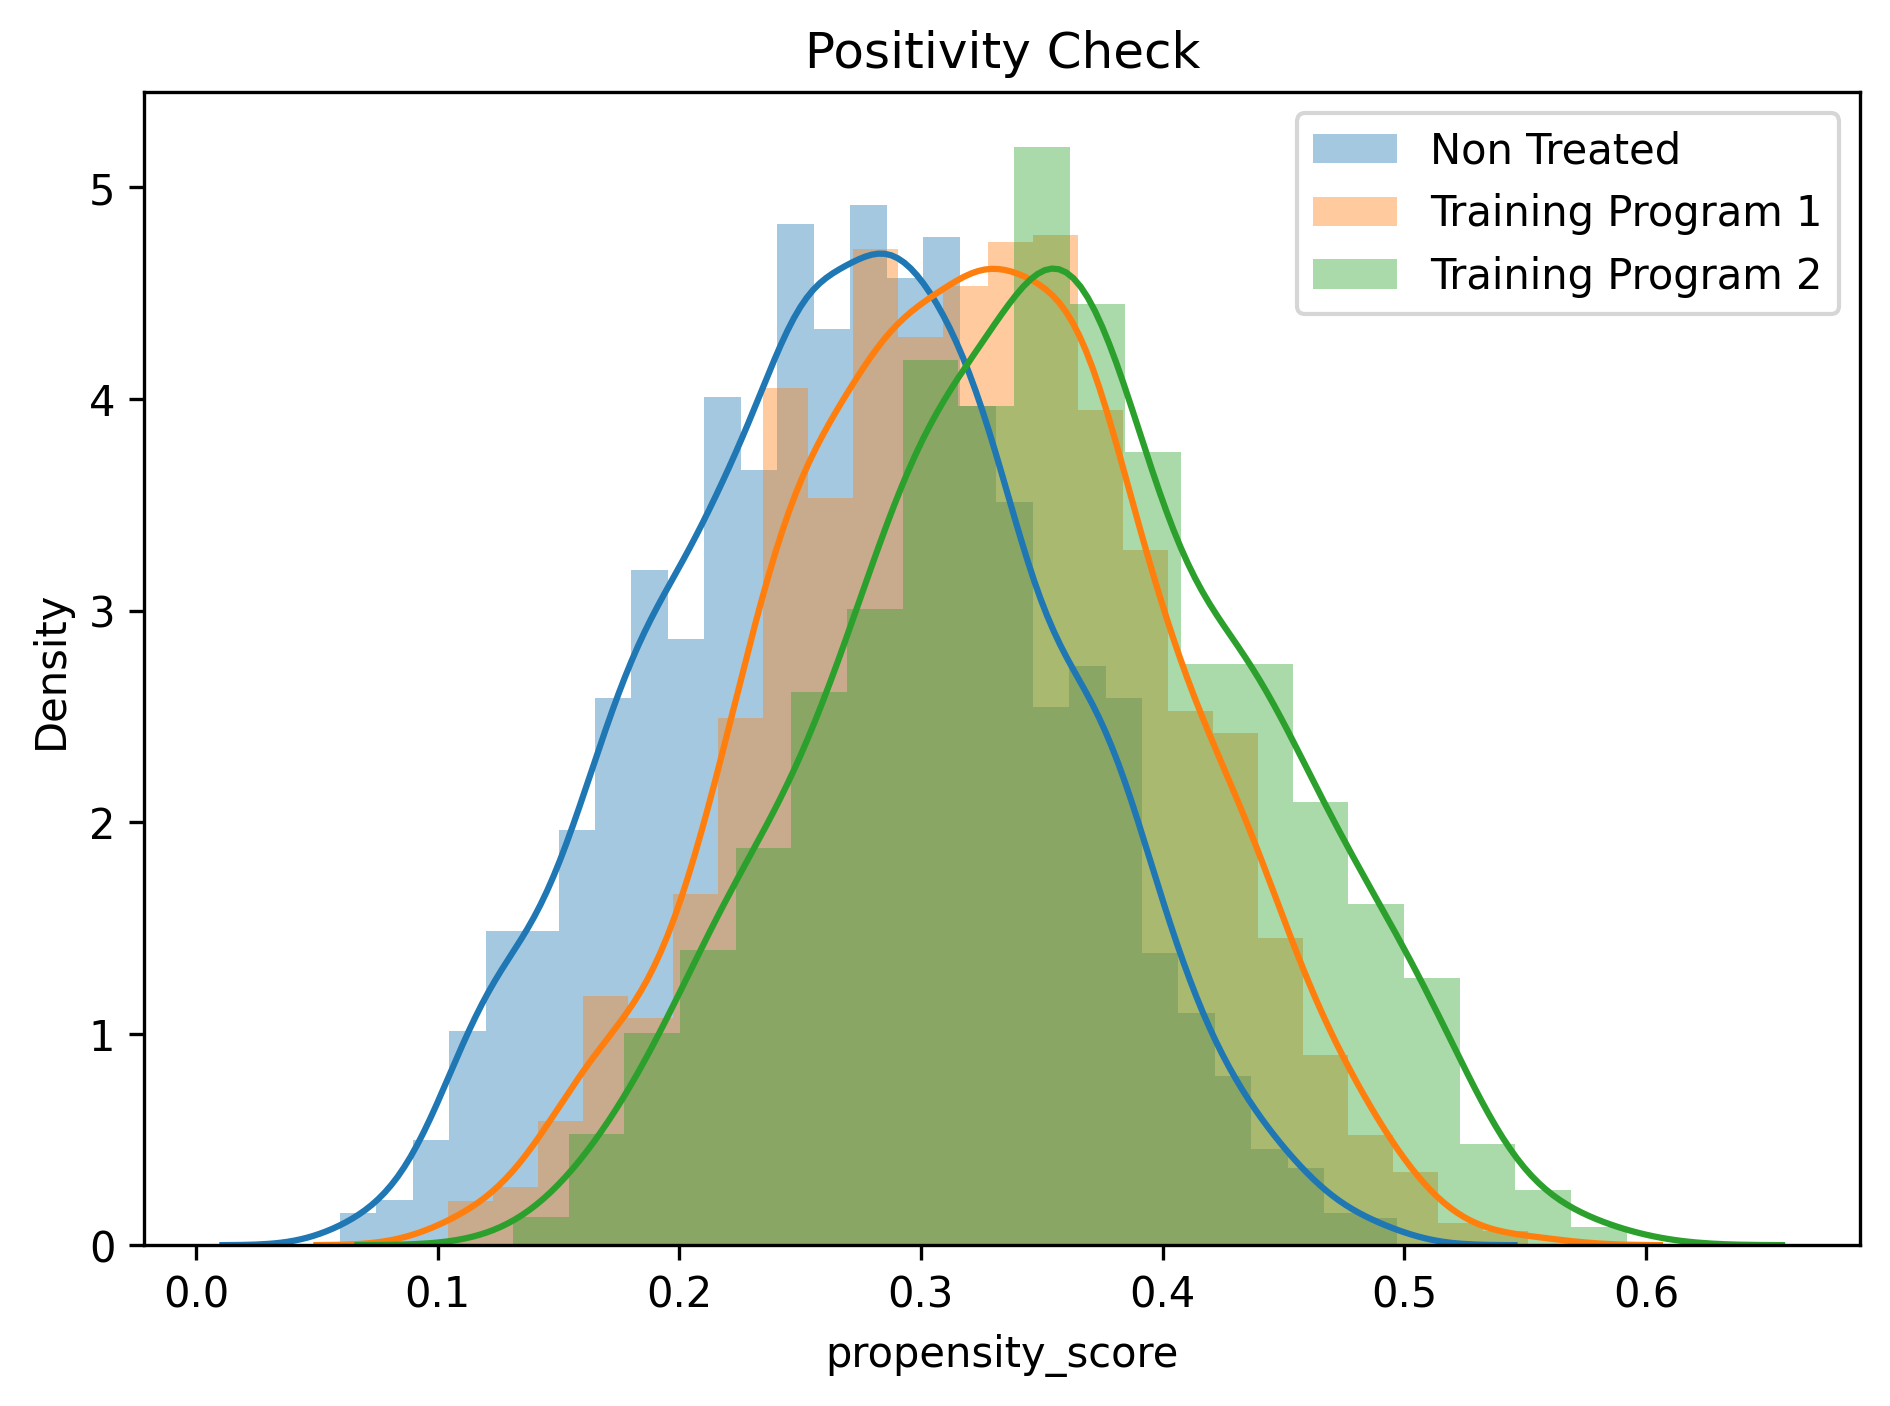
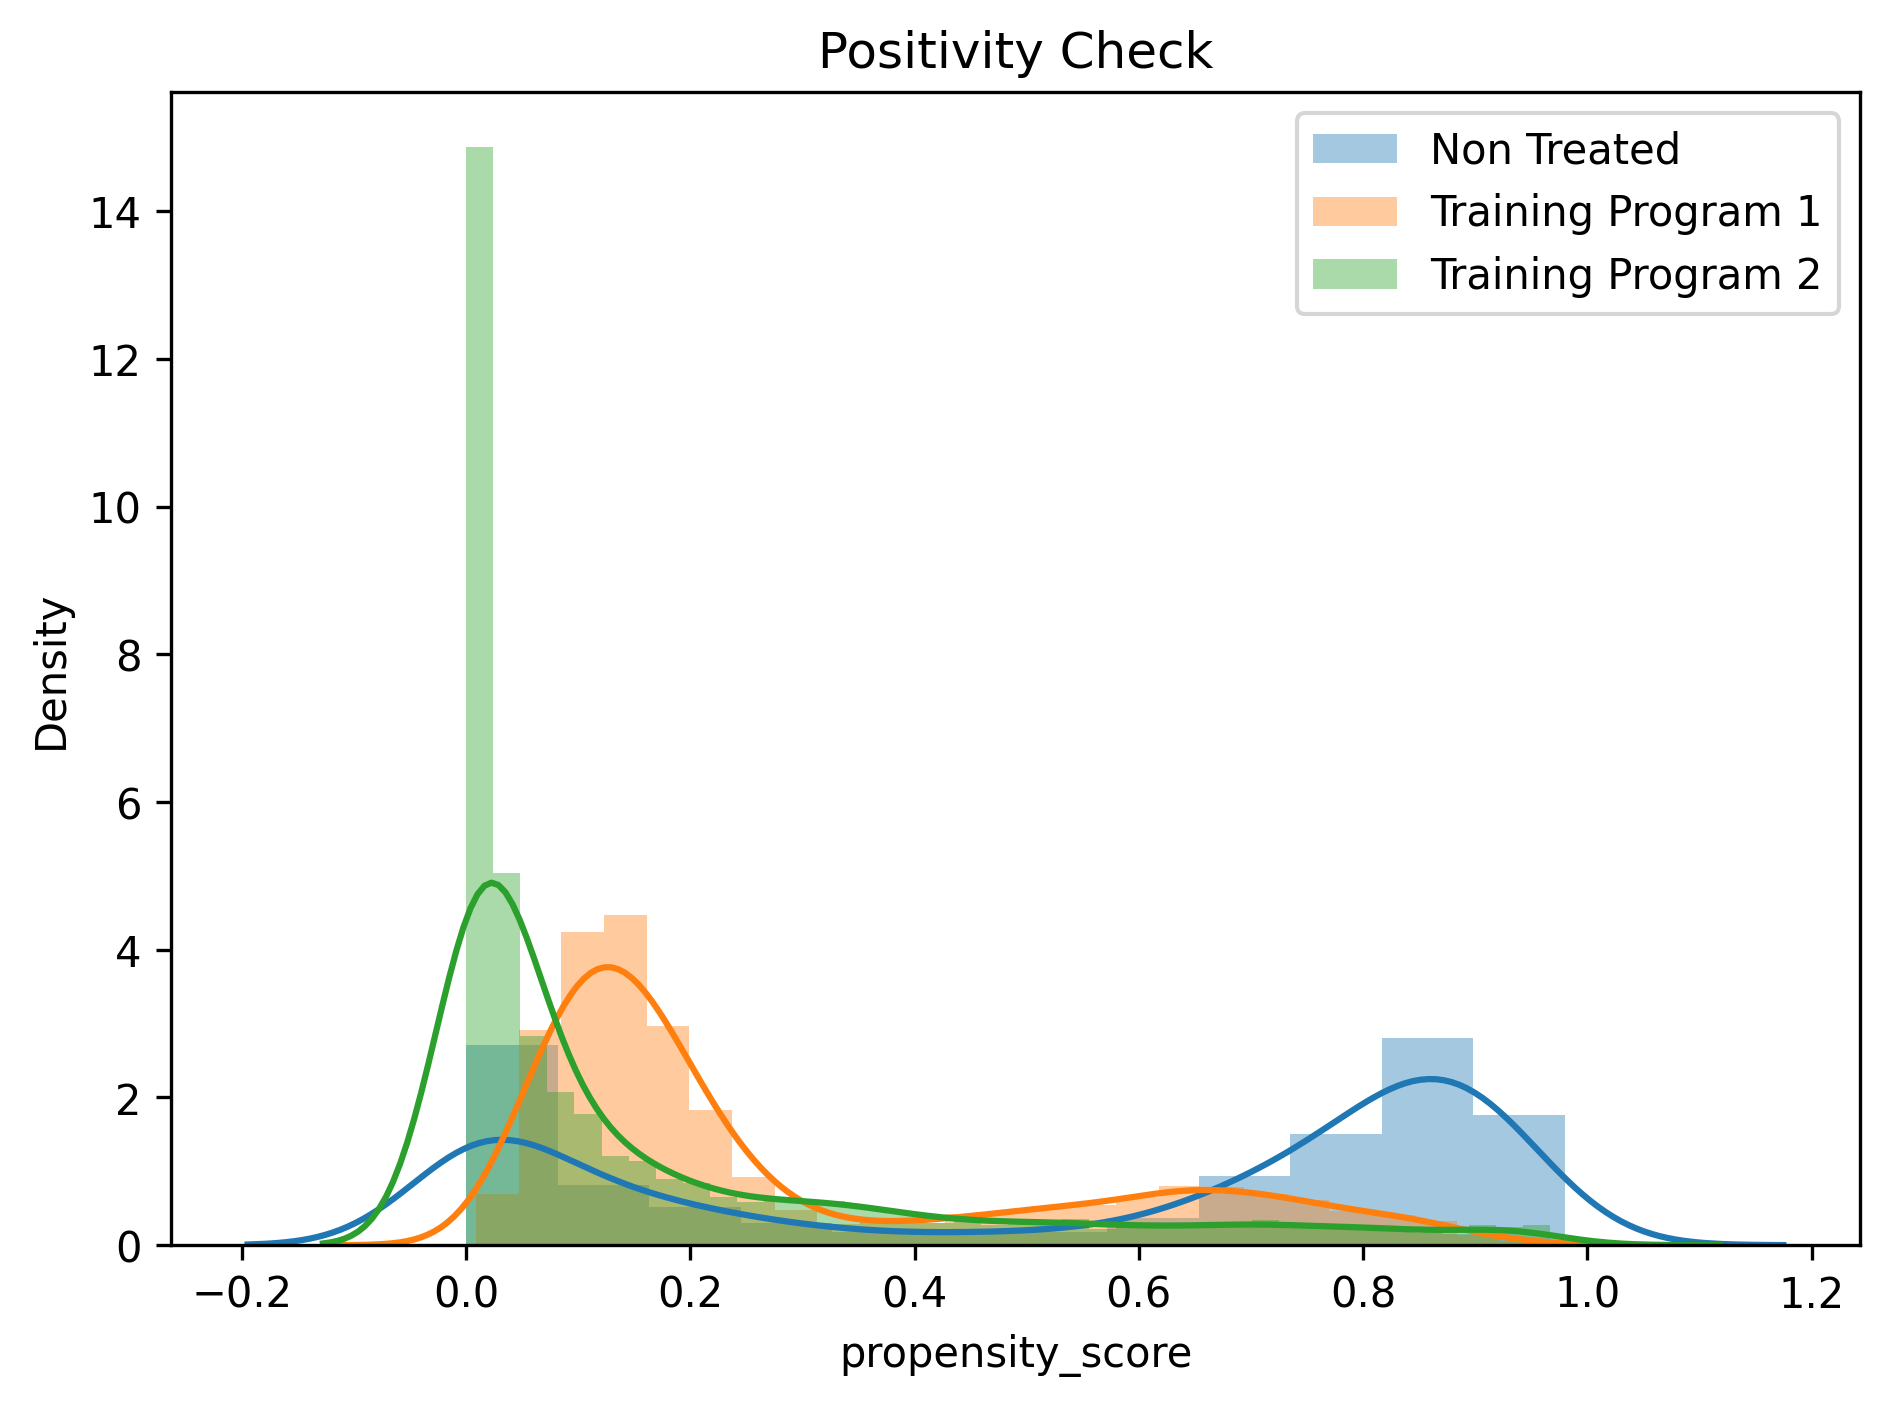
Update propensity score calculation and visualization; modify service sector share plot color. Replace individual earnings columns with averaged earnings in propensity score function and adjust plotting for clarity.

diff --git a/src/propensity_score.py b/src/propensity_score.py
@@ -7,14 +7,17 @@ def propensity_score(df):
     Calculate the propensity score for each sample in the dataframe.
     """
     # Create a figure
+    df['EARNX1'] =(df['EARNX1_1'] + df['EARNX1_2'] + df['EARNX1_3'] + df['EARNX1_4'])/4
+    df['EARNX2'] =(df['EARNX2_1'] + df['EARNX2_2'] + df['EARNX2_3'] + df['EARNX2_4'])/4
     
     X = [
-        'AGE', 'SEX', 'SCHOOL', 'VOC_DEG', 'NATION', 'REGION', 'REG_AL', 'REG_PRG', 
-        'SECT_AL', 'PROF_AL', 'UNEM_X0', 'OLF_X0', 'EMPL_X0', 'EARN_X0', 
+        'AGE', 'SEX', 'SCHOOL', 'VOC_DEG', 'NATION', 'REGION', 
+        'REG_AL', 'REG_PRG', 'REG_SER', 'REG_PRO', 'REG_AGRI',
+        'SECT_AL', 'PROF_AL', 'PROF_XL',
+        'UNEM_X0', 'OLF_X0', 'EMPL_X0', 'EARN_X0', 
         'EMPLX1_1', 'EMPLX1_2', 'EMPLX1_3', 'EMPLX1_4', 
         'EMPLX2_1', 'EMPLX2_2', 'EMPLX2_3', 'EMPLX2_4', 
-        'EARNX1_1', 'EARNX1_2', 'EARNX1_3', 'EARNX1_4', 
-        'EARNX2_1', 'EARNX2_2', 'EARNX2_3', 'EARNX2_4', 
+        'EARNX1', 'EARNX2', 
         'LMP_CW', 'PROF_XL'
     ]
 
@@ -26,12 +29,14 @@ def propensity_score(df):
     # Create a figure
     ps_model = LogisticRegression(C=1e6).fit(df_x, df_t)
 
-    df_ps = df.assign(propensity_score=ps_model.predict_proba(df[X])[:, 1])
-    print(df_ps.head())
+    df_ps_0 = df.assign(propensity_score=ps_model.predict_proba(df[X])[:, 0])
+    df_ps_1 = df.assign(propensity_score=ps_model.predict_proba(df[X])[:, 1])
+    df_ps_2 = df.assign(propensity_score=ps_model.predict_proba(df[X])[:, 2])
+    print(df_ps_0.head())
 
-    sns.distplot(df_ps.query("PTYPE==0")["propensity_score"], kde=True, label="Non Treated")
-    sns.distplot(df_ps.query("PTYPE==1")["propensity_score"], kde=True, label="Training Program 1")
-    sns.distplot(df_ps.query("PTYPE==2")["propensity_score"], kde=True, label="Training Program 2")
+    sns.distplot(df_ps_0["propensity_score"], kde=True, label="Non Treated")
+    sns.distplot(df_ps_1["propensity_score"], kde=True, label="Training Program 1")
+    sns.distplot(df_ps_2["propensity_score"], kde=True, label="Training Program 2")
 
     plt.title("Positivity Check")
     plt.legend();

diff --git a/src/plot_ptype.py b/src/plot_ptype.py
@@ -347,7 +347,7 @@ def plot_region_service_sector_share(df):
 
     # bar plot of service sector share by region
     service_sector_share_by_region = pd.crosstab(df['REGION'], df['REG_SER'])
-    service_sector_share_by_region.plot(kind='bar', ax=ax1, stacked=True, legend=False)
+    service_sector_share_by_region.plot(kind='bar', ax=ax1, stacked=True, legend=False, color='#3498db')
     ax1.set_title('Service Sector Share by Region (REG_SER)')
     ax1.set_xlabel('Region (REGION)')
     ax1.set_ylabel('Service Sector Share (REG_SER)')    
